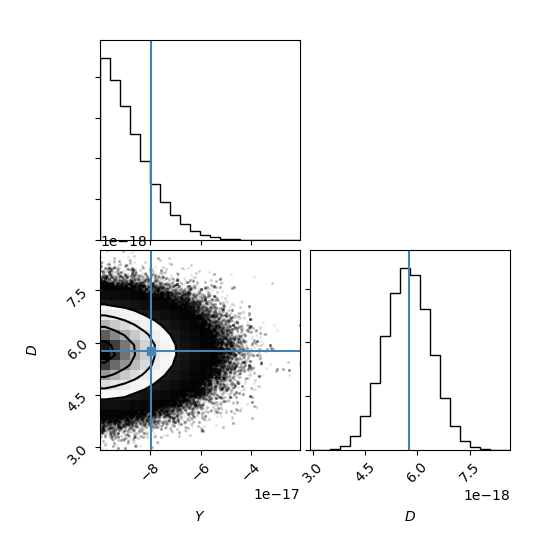
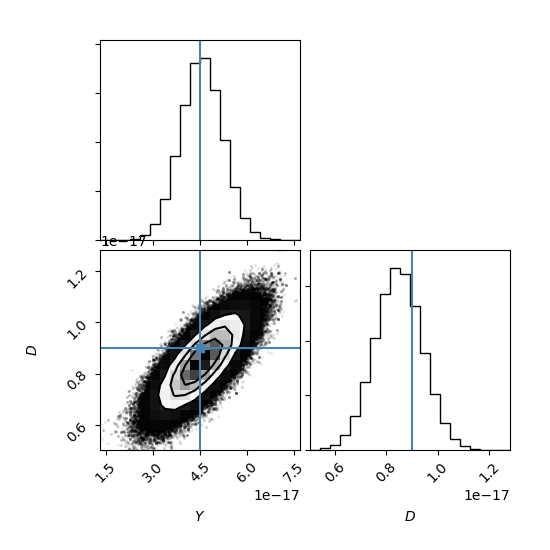
doing corner plots for the simulation with values that seem close to the data

diff --git a/emceefitsimulated.py b/emceefitsimulated.py
@@ -167,7 +167,7 @@ def lnlike(param,nu,S,yerr):
 def lnprior(param):
     #sys.exit()
     Y,D=param
-    if -1e-15 < Y < -1e-17 and  1e-18< D < 1e-17:# and -1e-16 < dT < 0:
+    if 1e-17 < Y < 1e-16 and  5e-18< D < 5e-17:# and -1e-16 < dT < 0:
         return 0.0
     return -np.inf
 
@@ -179,7 +179,7 @@ def lnprob(param, nu, S, yerr):
 
 
 ndim, nwalkers = 2, 20
-guess=np.array([-7.96871772e-17,5.74833793e-18])
+guess=np.array([4.5e-17,9e-18])
 pos = [guess*(1+0.1*np.random.uniform(-1,1,size=ndim)) for i in range(nwalkers)]
 #print(pos[0],pos[1])
 #sys.exit()
@@ -200,48 +200,48 @@ pos = [guess*(1+0.1*np.random.uniform(-1,1,size=ndim)) for i in range(nwalkers)]
 
 #Uncomment this area later
 import emcee
-sampler = emcee.EnsembleSampler(nwalkers, ndim, lnprob, args=(freqlist, apmeans, aperr))
+# sampler = emcee.EnsembleSampler(nwalkers, ndim, lnprob, args=(freqlist, apmeans, aperr))
 
 
-sampler.run_mcmc(pos, 500000)
-rawsamples=sampler.chain[:,:, :]
-np.save("../samples.npy",rawsamples)
-samples = sampler.chain[:, 50:, :].reshape((-1, ndim))
-print(samples.shape)
-Y_samples=rawsamples[:,:,0]
+# sampler.run_mcmc(pos, 500000)
+# rawsamples=sampler.chain[:,:, :]
+# np.save("../samples.npy",rawsamples)
+# samples = sampler.chain[:, 50:, :].reshape((-1, ndim))
+# print(samples.shape)
+# Y_samples=rawsamples[:,:,0]
 
-D_samples=rawsamples[:,:,1]
-#dT_samples=rawsamples[:,:,2]
-#print(Y_samples)
-plt.hist(Y_samples.reshape(-1))
-plt.title('Y')
-plt.savefig('Y mcmc values.png')
-plt.close()
+# D_samples=rawsamples[:,:,1]
+# #dT_samples=rawsamples[:,:,2]
+# #print(Y_samples)
+# plt.hist(Y_samples.reshape(-1))
+# plt.title('Y')
+# plt.savefig('Y mcmc values.png')
+# plt.close()
 
-plt.hist(D_samples.reshape(-1))
-plt.title('D')
-plt.savefig('D mcmc values.png')
+# plt.hist(D_samples.reshape(-1))
+# plt.title('D')
+# plt.savefig('D mcmc values.png')
 
-# plt.hist(dT_samples)
-# plt.title('dT')
-# plt.savefig('dT mcmc values.png')
+# # plt.hist(dT_samples)
+# # plt.title('dT')
+# # plt.savefig('dT mcmc values.png')
 
-for i in range(nwalkers):
-    plt.plot(Y_samples[i,:])
-    #print(Y_samples[i,:])
-ymin=np.min(Y_samples)
-ymax=np.max(Y_samples)
-plt.ylim(ymin,ymax)
-plt.title('Y')
-plt.savefig('Y mcmc chain.png')
+# for i in range(nwalkers):
+#     plt.plot(Y_samples[i,:])
+#     #print(Y_samples[i,:])
+# ymin=np.min(Y_samples)
+# ymax=np.max(Y_samples)
+# plt.ylim(ymin,ymax)
+# plt.title('Y')
+# plt.savefig('Y mcmc chain.png')
 
-for i in range(nwalkers):
-    plt.plot(D_samples[i,:])
-ymin=np.min(D_samples)
-ymax=np.max(D_samples)
-plt.ylim(ymin,ymax)
-plt.title('D')
-plt.savefig('D mcmc chain.png')
+# for i in range(nwalkers):
+#     plt.plot(D_samples[i,:])
+# ymin=np.min(D_samples)
+# ymax=np.max(D_samples)
+# plt.ylim(ymin,ymax)
+# plt.title('D')
+# plt.savefig('D mcmc chain.png')
 #Uncomment this area later
 
 # plt.plot(dT_samples)
@@ -259,20 +259,20 @@ plt.savefig('D mcmc chain.png')
 # plt.savefig('Teff mcmc values.png')
 
 #samples[:, 1] = np.exp(samples[:, 1])
-Y_mcmc, D_mcmc= map(lambda v: (v[1], v[1]-v[0]),
-                             zip(*np.percentile(samples, [16, 50, 84],
-                                                axis=0)))
-print(Y_mcmc, D_mcmc)
-print(np.mean(Y_samples))
-print(np.mean(D_samples))
+# Y_mcmc, D_mcmc= map(lambda v: (v[1], v[1]-v[0]),
+#                              zip(*np.percentile(samples, [16, 50, 84],
+#                                                 axis=0)))
+# print(Y_mcmc, D_mcmc)
+# print(np.mean(Y_samples))
+# print(np.mean(D_samples))
 #print('Hi')
 
 
 
-# Y = 4.5e-17
-# D = 9e-18
-Y = -7.96871772e-17
-D = 5.74833793e-18
+Y = 4.5e-17
+D = 9e-18
+# Y = -7.96871772e-17
+# D = 5.74833793e-18
 
 
 dT = 0.
@@ -300,9 +300,9 @@ print(aperrs)
 print(yerrs)
 
 import corner
-fig = corner.corner(samples, labels=["$Y$", "$D$"])#,
+#fig = corner.corner(samples, labels=["$Y$", "$D$"])#,
                      #truths=[Y, D])
 fig1 = corner.corner(sim_samples, labels=["$Y$", "$D$"],
-                     truths=[Y, D])
-fig.savefig("triangle500000.png")
-fig1.savefig("simulatedtriangle.png")
+                      truths=[Y, D])
+#fig.savefig("triangle500000.png")
+fig1.savefig("simulatedtriangle500000.png")
